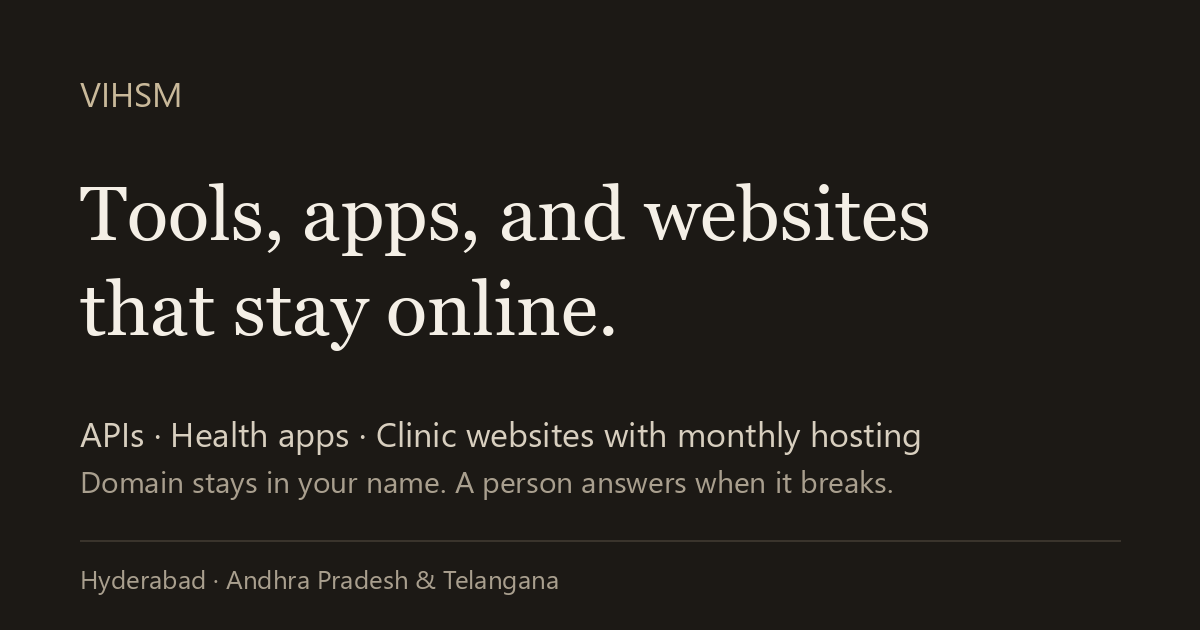
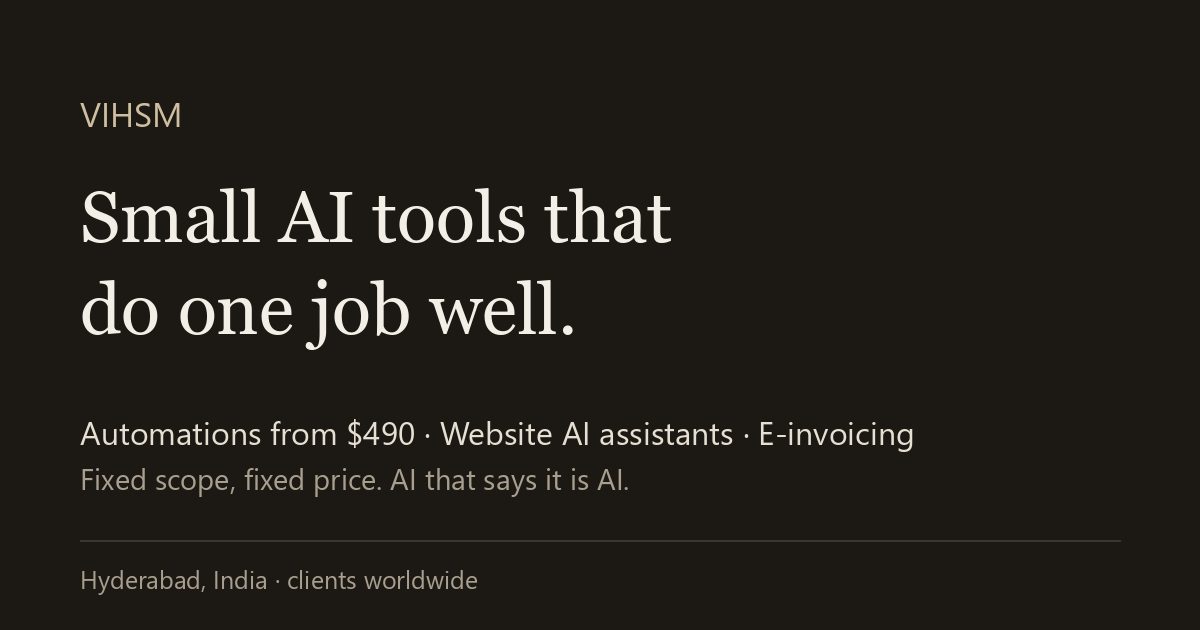
Rewrite company site for global fixed-price AI offers

diff --git a/index.html b/index.html
@@ -3,11 +3,11 @@
 <head>
   <meta charset="utf-8">
   <meta name="viewport" content="width=device-width, initial-scale=1">
-  <title>Vihsm — hosted tools, apps, and websites</title>
-  <meta name="description" content="Vihsm builds and hosts APIs, health apps, and websites for clinics and local firms. Hyderabad. Domain stays in the client's name.">
+  <title>Vihsm — fixed-price AI automation and tools</title>
+  <meta name="description" content="Fixed-price AI automations, website AI assistants, invoice-to-e-invoice conversion, and compliance quick fixes for businesses worldwide. Built by an AI engineer in Hyderabad.">
   <link rel="canonical" href="https://portfolio-marketing.vihsmai.com/">
-  <meta property="og:title" content="Vihsm — hosted tools, apps, and websites">
-  <meta property="og:description" content="APIs, health apps, and websites with monthly hosting. Based in Hyderabad.">
+  <meta property="og:title" content="Vihsm — fixed-price AI automation and tools">
+  <meta property="og:description" content="Automations from $490, website AI assistants, e-invoice conversion. Fixed scope, fixed price, AI that says it is AI.">
   <meta property="og:type" content="website">
   <meta property="og:url" content="https://portfolio-marketing.vihsmai.com/">
   <meta property="og:image" content="https://portfolio-marketing.vihsmai.com/og.png">
@@ -25,36 +25,100 @@
   <header class="site-header">
     <a class="wordmark" href="#top">Vihsm</a>
     <nav class="nav" aria-label="Page">
+      <a href="#services">Services</a>
+      <a href="#einvoice">E-invoicing</a>
+      <a href="#how">How we work</a>
       <a href="#apis">APIs</a>
-      <a href="#apps">Apps</a>
-      <a href="#websites">Websites</a>
-      <a href="#hosting">Hosting</a>
       <a href="#contact">Contact</a>
     </nav>
   </header>
 
   <main id="top">
     <section class="hero">
-      <p class="eyebrow">Hyderabad · hosted on our own server</p>
-      <h1>Tools, apps, and websites that stay online.</h1>
-      <p class="lede">Vihsm is the company site. We host what we build: document APIs, health apps, a study planner, and websites for clinics and local firms. A named person answers if something breaks.</p>
+      <p class="eyebrow">Based in Hyderabad, India &middot; working with businesses worldwide</p>
+      <h1>Small AI tools that do one job well.</h1>
+      <p class="lede">We automate the repetitive work in your business, at a fixed price agreed before we start. Each tool is built, tested, and handed over by an AI engineer with 9+ years in healthcare and insurance data science.</p>
       <div class="hero-actions">
-        <a class="button" href="#contact">Talk to Vihsm</a>
-        <a class="button button-quiet" href="#websites">Websites and hosting</a>
+        <a class="button" href="#contact">Tell us the job</a>
+        <a class="button button-quiet" href="#services">See prices</a>
       </div>
     </section>
 
-    <section class="band" aria-label="What this site is">
+    <section class="band" aria-label="What we promise">
       <ul class="facts">
-        <li><strong>One company</strong><span>Not a personal résumé. Products and client work only.</span></li>
-        <li><strong>Your domain</strong><span>A client site’s domain stays in the client’s name.</span></li>
-        <li><strong>Monthly hosting</strong><span>SSL, backups, and a person who picks up.</span></li>
+        <li><strong>Fixed price</strong><span>Scope, acceptance test, and price in writing before work starts.</span></li>
+        <li><strong>AI says it is AI</strong><span>Every assistant we build tells people they are talking to an AI, and hands over to a person.</span></li>
+        <li><strong>No inflated promises</strong><span>We measure your numbers first, then report what actually changed.</span></li>
       </ul>
     </section>
 
-    <section id="apis" class="section">
+    <section id="services" class="section">
       <div class="section-head">
-        <h2>APIs</h2>
+        <h2>Services and prices</h2>
+        <p>Prices in US dollars unless shown otherwise, before any local taxes. Monthly plans can be paid yearly: 12 months for the price of 10.</p>
+      </div>
+      <div class="grid grid-3">
+        <article class="card price">
+          <p class="kicker">Automation &middot; Starter</p>
+          <h3>$490</h3>
+          <p>One workflow, automated end to end in 5 working days. Inbox triage, lead routing, invoice intake, reports, CRM updates. Built on n8n with an AI model where it helps.</p>
+        </article>
+        <article class="card price card-focus">
+          <p class="kicker">Automation &middot; Standard</p>
+          <h3>$1,500</h3>
+          <p>Up to three connected workflows, with a handover video and written notes. Runs on our server or yours.</p>
+        </article>
+        <article class="card price">
+          <p class="kicker">Care plan</p>
+          <h3>$190<span> / month</span></h3>
+          <p>Hosting, monitoring, fixes when something upstream changes, and one hour of changes a month.</p>
+        </article>
+        <article class="card price">
+          <p class="kicker">Website AI assistant</p>
+          <h3>$390<span> + $49 / month</span></h3>
+          <p>A chat assistant that answers only from content you approve, says it is an AI, and passes the conversation to your team when needed.</p>
+        </article>
+        <article class="card price">
+          <p class="kicker">AI readiness audit</p>
+          <h3>$290</h3>
+          <p>In 5 days we map one team&rsquo;s repetitive work and name three automations with expected hours saved. Credited in full against a build ordered within 30 days.</p>
+        </article>
+        <article class="card price">
+          <p class="kicker">Compliance quick fixes</p>
+          <h3>From &euro;490</h3>
+          <p>EU AI Act transparency pack (&euro;490), website accessibility audit and fixes to WCAG 2.1 AA (from $750), India DPDP starter (&#8377;25,000). We implement; your adviser signs off.</p>
+        </article>
+      </div>
+    </section>
+
+    <section id="einvoice" class="section section-alt">
+      <div class="section-head">
+        <h2>Invoice to e-invoice</h2>
+        <p>Belgium already requires structured e-invoices between businesses. Germany follows in 2027 and 2028, French small businesses from 1 September 2027, and the UAE from July 2027. Most businesses still receive PDF and paper invoices from suppliers.</p>
+      </div>
+      <ol class="steps">
+        <li><strong>Read</strong><span>Upload a PDF, scan, or photo of an invoice.</span></li>
+        <li><strong>Convert</strong><span>Get structured EN 16931 data: UBL, Factur-X, or XRechnung.</span></li>
+        <li><strong>Check</strong><span>A validator shows exactly what is missing, and flags the same invoice arriving twice.</span></li>
+      </ol>
+      <p class="fine">In development. We do not replace certified platforms or Peppol access points; we prepare clean data for them. Accounting firms and software vendors who want early access: write to us with your country and monthly invoice volume.</p>
+    </section>
+
+    <section id="how" class="section">
+      <div class="section-head">
+        <h2>How we work</h2>
+        <p>Short, written, and checked against an agreed test.</p>
+      </div>
+      <ol class="steps">
+        <li><strong>Scope</strong><span>A one-page scope: what goes in, what comes out, how we test it, the price.</span></li>
+        <li><strong>Build</strong><span>We use only the access the job needs. Your data is never used to train anything.</span></li>
+        <li><strong>Hand over</strong><span>A walkthrough video, notes, and an optional care plan. Usage costs, like AI model or call minutes, are passed through at cost.</span></li>
+      </ol>
+    </section>
+
+    <section id="apis" class="section section-alt">
+      <div class="section-head">
+        <h2>Developer APIs</h2>
         <p>Six endpoints a developer can call. Each one does a narrow job. None of them is a licence, a bureau, or a medical opinion.</p>
       </div>
       <div class="grid">
@@ -103,7 +167,7 @@
       </div>
     </section>
 
-    <section id="apps" class="section section-alt">
+    <section id="apps" class="section">
       <div class="section-head">
         <h2>Apps</h2>
         <p>Interfaces on the same server, for households and students. Health apps inform. They do not treat.</p>
@@ -131,9 +195,9 @@
       </div>
     </section>
 
-    <section id="websites" class="section">
+    <section id="websites" class="section section-alt">
       <div class="section-head">
-        <h2>Websites for clinics and local firms</h2>
+        <h2>Websites + hosting in India</h2>
         <p>We design the site, put it on a domain in your name, and keep it online. The first proof is a hospital website we built and host in Tanuku. The live link is shared when that client has agreed.</p>
       </div>
       <div class="grid grid-3">
@@ -160,31 +224,19 @@
       </ul>
     </section>
 
-    <section id="hosting" class="section section-alt">
-      <div class="section-head">
-        <h2>What hosting means here</h2>
-        <p>Not “server space.” The site or API stays up, the padlock stays valid, a backup exists, and someone answers.</p>
-      </div>
-      <ol class="steps">
-        <li><strong>Build</strong><span>Pages, buttons, and the content you already have.</span></li>
-        <li><strong>Go live</strong><span>Your domain, DNS, SSL, and a link that opens on a phone.</span></li>
-        <li><strong>Keep it running</strong><span>Backups, small edits, and a monthly note that it is healthy.</span></li>
-      </ol>
-    </section>
-
     <section id="contact" class="section contact">
       <div>
         <h2>Contact</h2>
-        <p>Write with what you need: an API, an app question, or a website. Include your city and a phone number.</p>
+        <p>Tell us the job in two or three lines: what happens today, how often, and which tools you use. We reply within one working day with a fixed price or a clear no.</p>
         <p class="mail"><a id="email-link" href="mailto:hello@vihsmai.com">hello@vihsmai.com</a></p>
         <p><a class="button" id="whatsapp-link" href="#" target="_blank" rel="noopener">WhatsApp</a></p>
         <p class="fine" id="whatsapp-note"></p>
       </div>
       <div class="contact-card">
         <p class="kicker">Vihsm</p>
-        <p>Hyderabad, Telangana</p>
-        <p>Work across Andhra Pradesh and Telangana.</p>
-        <p class="fine">Health tools are information. A doctor decides care. Document tools need a human check before anyone files or pays.</p>
+        <p>Hyderabad, Telangana, India</p>
+        <p>Clients worldwide. Invoices in USD, EUR, or INR.</p>
+        <p class="fine">AI tools inform and save time. People make the decisions: health, legal, tax, and credit decisions are never made by our AI.</p>
       </div>
     </section>
   </main>

diff --git a/site.js b/site.js
@@ -13,7 +13,7 @@ const note = document.getElementById("whatsapp-note");
 const digits = (SITE.whatsapp || "").replace(/\D/g, "");
 
 if (digits.length >= 10) {
-  const text = encodeURIComponent("Hello Vihsm. I want to ask about hosting.");
+  const text = encodeURIComponent("Hello Vihsm. I have a job to automate.");
   wa.href = "https://wa.me/" + digits + "?text=" + text;
   note.textContent = "";
 } else {
